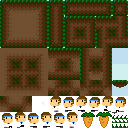
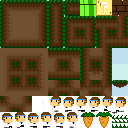
updated blcok sprites

Changed region(s): [[0.625, 0.0, 1.0, 0.125]]

diff --git a/js/game.js b/js/game.js
@@ -22,21 +22,14 @@ seemingly moves through the wall. This is not a problem with tile collision, but
 tunneling. His jump velocity moves him upwards more than one full tile space. */
 
 const Game = function() {
-
   this.world    = new Game.World();
-
   this.update   = function() {
-
     this.world.update();
-
   };
-
 };
 
 Game.prototype = {
-
   constructor : Game,
-
 };
 
 Game.World = function(friction = 0.8, gravity = 2) {
@@ -45,6 +38,7 @@ Game.World = function(friction = 0.8, gravity = 2) {
 
   this.friction = friction;
   this.gravity  = gravity;
+  this.timePassed = 0;
 
   this.columns   = 19;
   this.rows      = 9;
@@ -56,24 +50,24 @@ Game.World = function(friction = 0.8, gravity = 2) {
   this.player   = new Game.World.Object.Player(100, 100);// The player in its new "namespace".
 
   this.map = [39, 39, 39, 39, 39, 39, 39, 39, 39, 39, 39, 39, 39, 39, 39, 39, 39, 39, 39,
-    02, 39, 39, 39, 39, 39, 39, 39, 39, 31, 39, 39, 39, 39, 39, 39, 39, 39, 39,
-    10, 31, 39, 31, 31, 31, 39, 39, 39, 39, 39, 39, 39, 39, 39, 39, 39, 39, 39,
-    35, 06, 39, 39, 31, 39, 39, 39, 39, 39, 39, 39, 39, 39, 39, 39, 39, 39, 39,
-    02, 31, 31, 47, 39, 47, 39, 31, 31, 39, 39, 39, 39, 39, 39, 39, 39, 39, 39,
-    10, 39, 39, 31, 39, 39, 39, 31, 31, 31, 39, 39, 39, 39, 39, 39, 39, 39, 39,
-    10, 39, 31, 04, 14, 06, 39, 39, 03, 39, 00, 01, 01, 01, 01, 01, 01, 01, 01,
-    49, 02, 31, 31, 11, 39, 39, 31, 11, 00, 42, 09, 09, 09, 09, 09, 09, 09, 09,
-    08, 40, 27, 13, 37, 27, 13, 03, 22, 34, 09, 09, 09, 09, 09, 09, 09, 09, 09];
+              02, 39, 39, 39, 39, 39, 39, 39, 39, 31, 39, 39, 39, 39, 39, 39, 39, 39, 39,
+              10, 31, 39, 31, 31, 31, 39, 39, 39, 39, 39, 39, 39, 39, 39, 39, 39, 39, 39,
+              35, 06, 39, 39, 31, 39, 39, 39, 39, 39, 39, 39, 39, 39, 39, 39, 39, 39, 39,
+              02, 31, 31, 47, 39, 47, 39, 31, 31, 39, 39, 39, 39, 39, 39, 39, 39, 39, 39,
+              10, 39, 39, 31, 39, 39, 39, 31, 31, 31, 39, 39, 39, 39, 39, 39, 39, 39, 39,
+              10, 39, 31, 04, 14, 06, 39, 39, 05, 39, 07, 07, 07, 07, 07, 07, 07, 07, 07,
+              49, 02, 31, 31, 11, 39, 39, 31, 11, 39, 39, 39, 39, 39, 39, 39, 39, 39, 39,
+              08, 40, 27, 13, 37, 27, 13, 03, 11, 03, 39, 39, 39, 39, 39, 39, 39, 39, 39];
 
   this.collision_map = [00, 00, 00, 00, 00, 00, 00, 00, 00, 00, 00, 00, 00, 00, 00, 00, 00, 00, 00,
-    01, 00, 00, 00, 00, 00, 00, 00, 00, 00, 00, 00, 00, 00, 00, 00, 00, 00, 00,
-    02, 00, 00, 00, 00, 00, 00, 00, 00, 00, 00, 00, 00, 00, 00, 00, 00, 00, 00,
-    00, 07, 00, 00, 00, 00, 00, 00, 00, 00, 00, 00, 00, 00, 00, 00, 00, 00, 00,
-    02, 00, 00, 01, 00, 01, 00, 00, 00, 00, 00, 00, 00, 00, 00, 00, 00, 00, 00,
-    02, 00, 00, 00, 00, 00, 00, 00, 00, 00, 00, 00, 00, 00, 00, 00, 00, 00, 00,
-    02, 00, 00, 13, 01, 07, 00, 00, 11, 00, 09, 01, 01, 01, 01, 01, 01, 01, 01,
-    00, 03, 00, 00, 10, 00, 00, 00, 08, 01, 00, 00, 00, 00, 00, 00, 00, 00, 00,
-    00, 00, 01, 01, 00, 01, 01, 01, 00, 00, 00, 00, 00, 00, 00, 00, 00, 00, 00];
+                        01, 00, 00, 00, 00, 00, 00, 00, 00, 00, 00, 00, 00, 00, 00, 00, 00, 00, 00,
+                        02, 00, 00, 00, 00, 00, 00, 00, 00, 00, 00, 00, 00, 00, 00, 00, 00, 00, 00,
+                        00, 07, 00, 00, 00, 00, 00, 00, 00, 00, 00, 00, 00, 00, 00, 00, 00, 00, 00,
+                        02, 00, 00, 01, 00, 01, 00, 00, 00, 00, 00, 00, 00, 00, 00, 00, 00, 00, 00,
+                        02, 00, 00, 00, 00, 00, 00, 00, 00, 00, 00, 00, 00, 00, 00, 00, 00, 00, 00,
+                        02, 00, 00, 13, 01, 07, 00, 00, 11, 00, 13, 13, 13, 13, 13, 13, 13, 13, 13,
+                        00, 03, 00, 00, 10, 00, 00, 00, 10, 00, 00, 00, 00, 00, 00, 00, 00, 00, 00,
+                        00, 00, 01, 01, 10, 01, 01, 01, 10, 03, 00, 00, 00, 00, 00, 00, 00, 00, 00];
 
   /*map to keep track of which locations items will appear in 
     0: nothing

diff --git a/js/main.js b/js/main.js
@@ -111,7 +111,7 @@ window.addEventListener("load", function(event) {
   display.buffer.canvas.height = game.world.height;
   display.buffer.canvas.width  = game.world.width;
   display.buffer.imageSmoothingEnabled = false;
-
+ 
   /* Now my image is loaded into the assets manager instead of the display object.
   The callback starts the game engine when the graphic is loaded. */
   assets_manager.loadTileSetImage("super-vaccine-man.png", () => {
